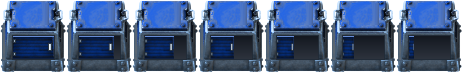
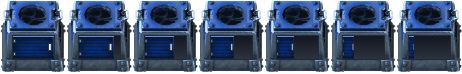
Chests: new lid with round opening drawn by the owner, blue and purple chests and the three ruins rebuilt from it; docs

diff --git a/graphics/chest/make_chests.py b/graphics/chest/make_chests.py
@@ -2,7 +2,7 @@
 graphics/garage/make_garage.py).
 
 closed.png is the chest drawn from the logistic chest of the game (yellow, steel blue metal, hatch on
-the front), finished by hand. The chests of the game open with 7 frames (opened_duration 7 ticks);
+the front, round opening of the lid), finished by hand, as is its ruin, source/yellow-remnants.png. The chests of the game open with 7 frames (opened_duration 7 ticks);
 here the hatch of the front panel swings open on its hinges (on the left): it is squashed in
 width towards its left edge, and the dark inside of the chest shows on its right.
 
@@ -18,7 +18,6 @@ frames, so scripts/chest_door.lua draws the hatch (door.png squashed) over the i
 """
 import colorsys
 import os
-import random
 from PIL import Image, ImageDraw
 
 OUT = os.path.dirname(os.path.abspath(__file__))
@@ -55,61 +54,11 @@ def recolor(image, hue, value):
     return image
 
 
-REMNANTS = r"C:\Program Files (x86)\Steam\steamapps\common\Factorio\data\base\graphics\entity\logistic-chest\remnants"
-STEEL_HUE = 0.585
-HUE_RANGES = {"yellow": (0.08, 0.2), "blue": (0.5, 0.68), "purple": (0.7, 0.88)}  # of the colour in the remnants of the game
-
-
-def build_remnants(name, vanilla):
-    """The remnants of the chest of the game of the same colour: its colour kept (turned to the hue
-    of the chest), its metal in the steel blue of the sprites. The dark shadow is left alone."""
-    image = Image.open(os.path.join(REMNANTS, vanilla + "-remnants.png")).convert("RGBA")
-    pixels = image.load()
-    low, high = HUE_RANGES[name]
-    for y in range(image.height):
-        for x in range(image.width):
-            r, g, b, a = pixels[x, y]
-            h, s, v = colorsys.rgb_to_hsv(r / 255, g / 255, b / 255)
-            if not a or v < 0.15:
-                continue
-            if s > (0.4 if name == "yellow" else 0.28) and low < h < high:
-                if COLORS[name]:
-                    h = COLORS[name][0]
-            else:
-                h, s, v = STEEL_HUE, min(0.4, s * 0.8 + 0.12), min(1, v * 1.5 + 0.1)
-            r, g, b = colorsys.hsv_to_rgb(h, s, v)
-            pixels[x, y] = (round(r * 255), round(g * 255), round(b * 255), a)
-    flatten_lid(image)
-    return image
-
-
-REMNANTS_IRIS = (21, 9, 52, 30)  # the round opening of the lid in the remnants of the game (left, top, right, bottom)
-
-
-def flatten_lid(image):
-    """The lid of the chest has no opening: the round hole of the remnants becomes a flat sheet of the
-    colour of the lid, torn: a crack and a bent corner."""
-    pixels = image.load()
-    random.seed(3)
-    left, top, right, bottom = REMNANTS_IRIS
-
-    def average(y, x):  # the plate over a few columns, so that the fill has no streaks
-        columns = [pixels[column, y] for column in range(x - 3, x + 4)]
-        return [sum(pixel[i] for pixel in columns) / len(columns) for i in range(3)]
-
-    for x in range(left, right + 1):
-        above, below = average(top - 1, x), average(bottom + 1, x)
-        for y in range(top, bottom + 1):
-            t = (y - top) / (bottom - top)
-            noise = random.randint(-6, 6)
-            pixels[x, y] = tuple(max(0, min(255, round(above[i] * (1 - t) + below[i] * t) + noise)) for i in range(3)) + (255,)
-    draw = ImageDraw.Draw(image)
-    dark = tuple(round(c * 0.35) for c in pixels[(left + right) // 2, (top + bottom) // 2][:3]) + (255,)
-    light = tuple(min(255, round(c * 1.25) + 10) for c in pixels[(left + right) // 2, (top + bottom) // 2][:3]) + (255,)
-    draw.line([(26, 11), (30, 17), (29, 20), (35, 26)], fill=dark)  # a crack
-    draw.line([(27, 11), (31, 17), (30, 20), (36, 26)], fill=light)  # its lit edge
-    draw.polygon([(44, 10), (51, 10), (51, 17)], fill=light)  # a bent corner
-    draw.line([(44, 10), (51, 17)], fill=dark)
+def build_remnants(name):
+    """The remnants of the chest: the yellow ones are drawn by the owner (source/yellow-remnants.png, the
+    ruin of the closed chest, 116 x 82), the others turn their yellow to the hue of the chest."""
+    image = Image.open(os.path.join(OUT, "source", "yellow-remnants.png")).convert("RGBA")
+    return recolor(image, *COLORS[name]) if COLORS[name] else image
 
 
 def build_icon(chest):
@@ -152,8 +101,8 @@ if __name__ == "__main__":
         closed.crop((HATCH[0], HATCH[1], HATCH[2] + 1, HATCH[3] + 1)).save(os.path.join(OUT, name + "-door.png"))
         print(name, sheet.size)
     os.makedirs(os.path.join(OUT, "remnants"), exist_ok=True)
-    for name, vanilla in (("yellow", "storage-chest"), ("blue", "requester-chest"), ("purple", "active-provider-chest")):
-        build_remnants(name, vanilla).save(os.path.join(OUT, "remnants", name + "-remnants.png"))
+    for name in COLORS:
+        build_remnants(name).save(os.path.join(OUT, "remnants", name + "-remnants.png"))
     inside = Image.new("RGBA", closed.size, (0, 0, 0, 0))
     draw_inside(inside)
     inside.crop((HATCH[0], HATCH[1], HATCH[2] + 1, HATCH[3] + 1)).save(os.path.join(OUT, "interior.png"))

diff --git a/CLAUDE.md b/CLAUDE.md
@@ -170,8 +170,8 @@ Section « Clearing » de `movement.lua` : dernier recours avant `stuck`, demand
 
 ### Coffres (visuel, validé en jeu par le propriétaire le 2026-10-22)
 
-- Un modèle (`graphics/chest/closed.png`, tiré du coffre logistique, couvercle jaune plat avec la place d'un futur logo, métal bleu acier, trappe sur la face avant, retouché par le propriétaire) en trois couleurs, `make_chests.py` : jaune (coffre d'approvisionnement), bleu (livraison, comme le demandeur) et violet (retour, comme le fournisseur actif) ; le jaune du modèle est seulement tourné vers la teinte voulue. Couleurs de livraison et de retour : ma lecture de « jaune pour l'approvisionnement et la livraison, bleu et violet pour le retour », à confirmer.
-- Ouverture : le jeu ne joue l'animation d'un coffre logistique que pour un joueur ou un robot, pas pour une voiture. Les 7 images (`opened_duration` 7 ticks, la trappe se replie vers la gauche, ses charnières, l'intérieur sombre apparaît) servent donc aux robots et au joueur ; pour les voitures `chest_door.lua` dessine par-dessus le sprite fermé l'intérieur et la trappe (`<couleur>-door.png`, `interior.png`, écrasée en largeur, `x_scale`), comme la porte du garage, ce qui marche aussi pour l'approvisionnement (`container`, sans animation). Géométrie dans `config.chest_door` (à refaire si le sprite change). Ombre et dimensions des coffres du jeu ; icônes tirées de l'image fermée. Restes (à valider en jeu) : ceux du coffre de stockage, de demandeur et de fournisseur actif du jeu, métal en bleu acier et couleur gardée (`graphics/chest/remnants`).
+- Un modèle (`graphics/chest/closed.png`, tiré du coffre logistique, couvercle jaune à ouverture ronde (refait par le propriétaire le 2026-10-24), métal bleu acier, trappe sur la face avant, retouché par le propriétaire) en trois couleurs, `make_chests.py` : jaune (coffre d'approvisionnement), bleu (livraison, comme le demandeur) et violet (retour, comme le fournisseur actif) ; le jaune du modèle est seulement tourné vers la teinte voulue. Couleurs de livraison et de retour : ma lecture de « jaune pour l'approvisionnement et la livraison, bleu et violet pour le retour », à confirmer.
+- Ouverture : le jeu ne joue l'animation d'un coffre logistique que pour un joueur ou un robot, pas pour une voiture. Les 7 images (`opened_duration` 7 ticks, la trappe se replie vers la gauche, ses charnières, l'intérieur sombre apparaît) servent donc aux robots et au joueur ; pour les voitures `chest_door.lua` dessine par-dessus le sprite fermé l'intérieur et la trappe (`<couleur>-door.png`, `interior.png`, écrasée en largeur, `x_scale`), comme la porte du garage, ce qui marche aussi pour l'approvisionnement (`container`, sans animation). Géométrie dans `config.chest_door` (à refaire si le sprite change). Ombre et dimensions des coffres du jeu ; icônes tirées de l'image fermée. Restes (à valider en jeu) : la ruine jaune dessinée par le propriétaire (`graphics/chest/source/yellow-remnants.png`, 116 × 82), le bleu et le violet par `make_chests.py` qui en tourne le jaune (`graphics/chest/remnants`).
 - Visite : à l'arrivée d'une voiture (tâches `collect`, `deposit`, `restock`), `ghost_control.start_chest_visit` ouvre la trappe du coffre et de tout son groupe, la voiture attend `config.chest_door.transfer_delay` (10) ticks en `waiting` (`storage.chest_visits` ; elle ne prend alors aucun batch), `update_chest_visits` (avant les voitures) fait le transfert puis `chest_door.finish` : la trappe ne se ferme qu'après la dernière voiture (`users`). Une voiture qui n'attend plus (danger, batterie vide) n'a pas de transfert. Les scénarios perdent 10 ticks par visite : à garder en tête en comparant des traces.
 
 ### Réseaux logique et logistique
